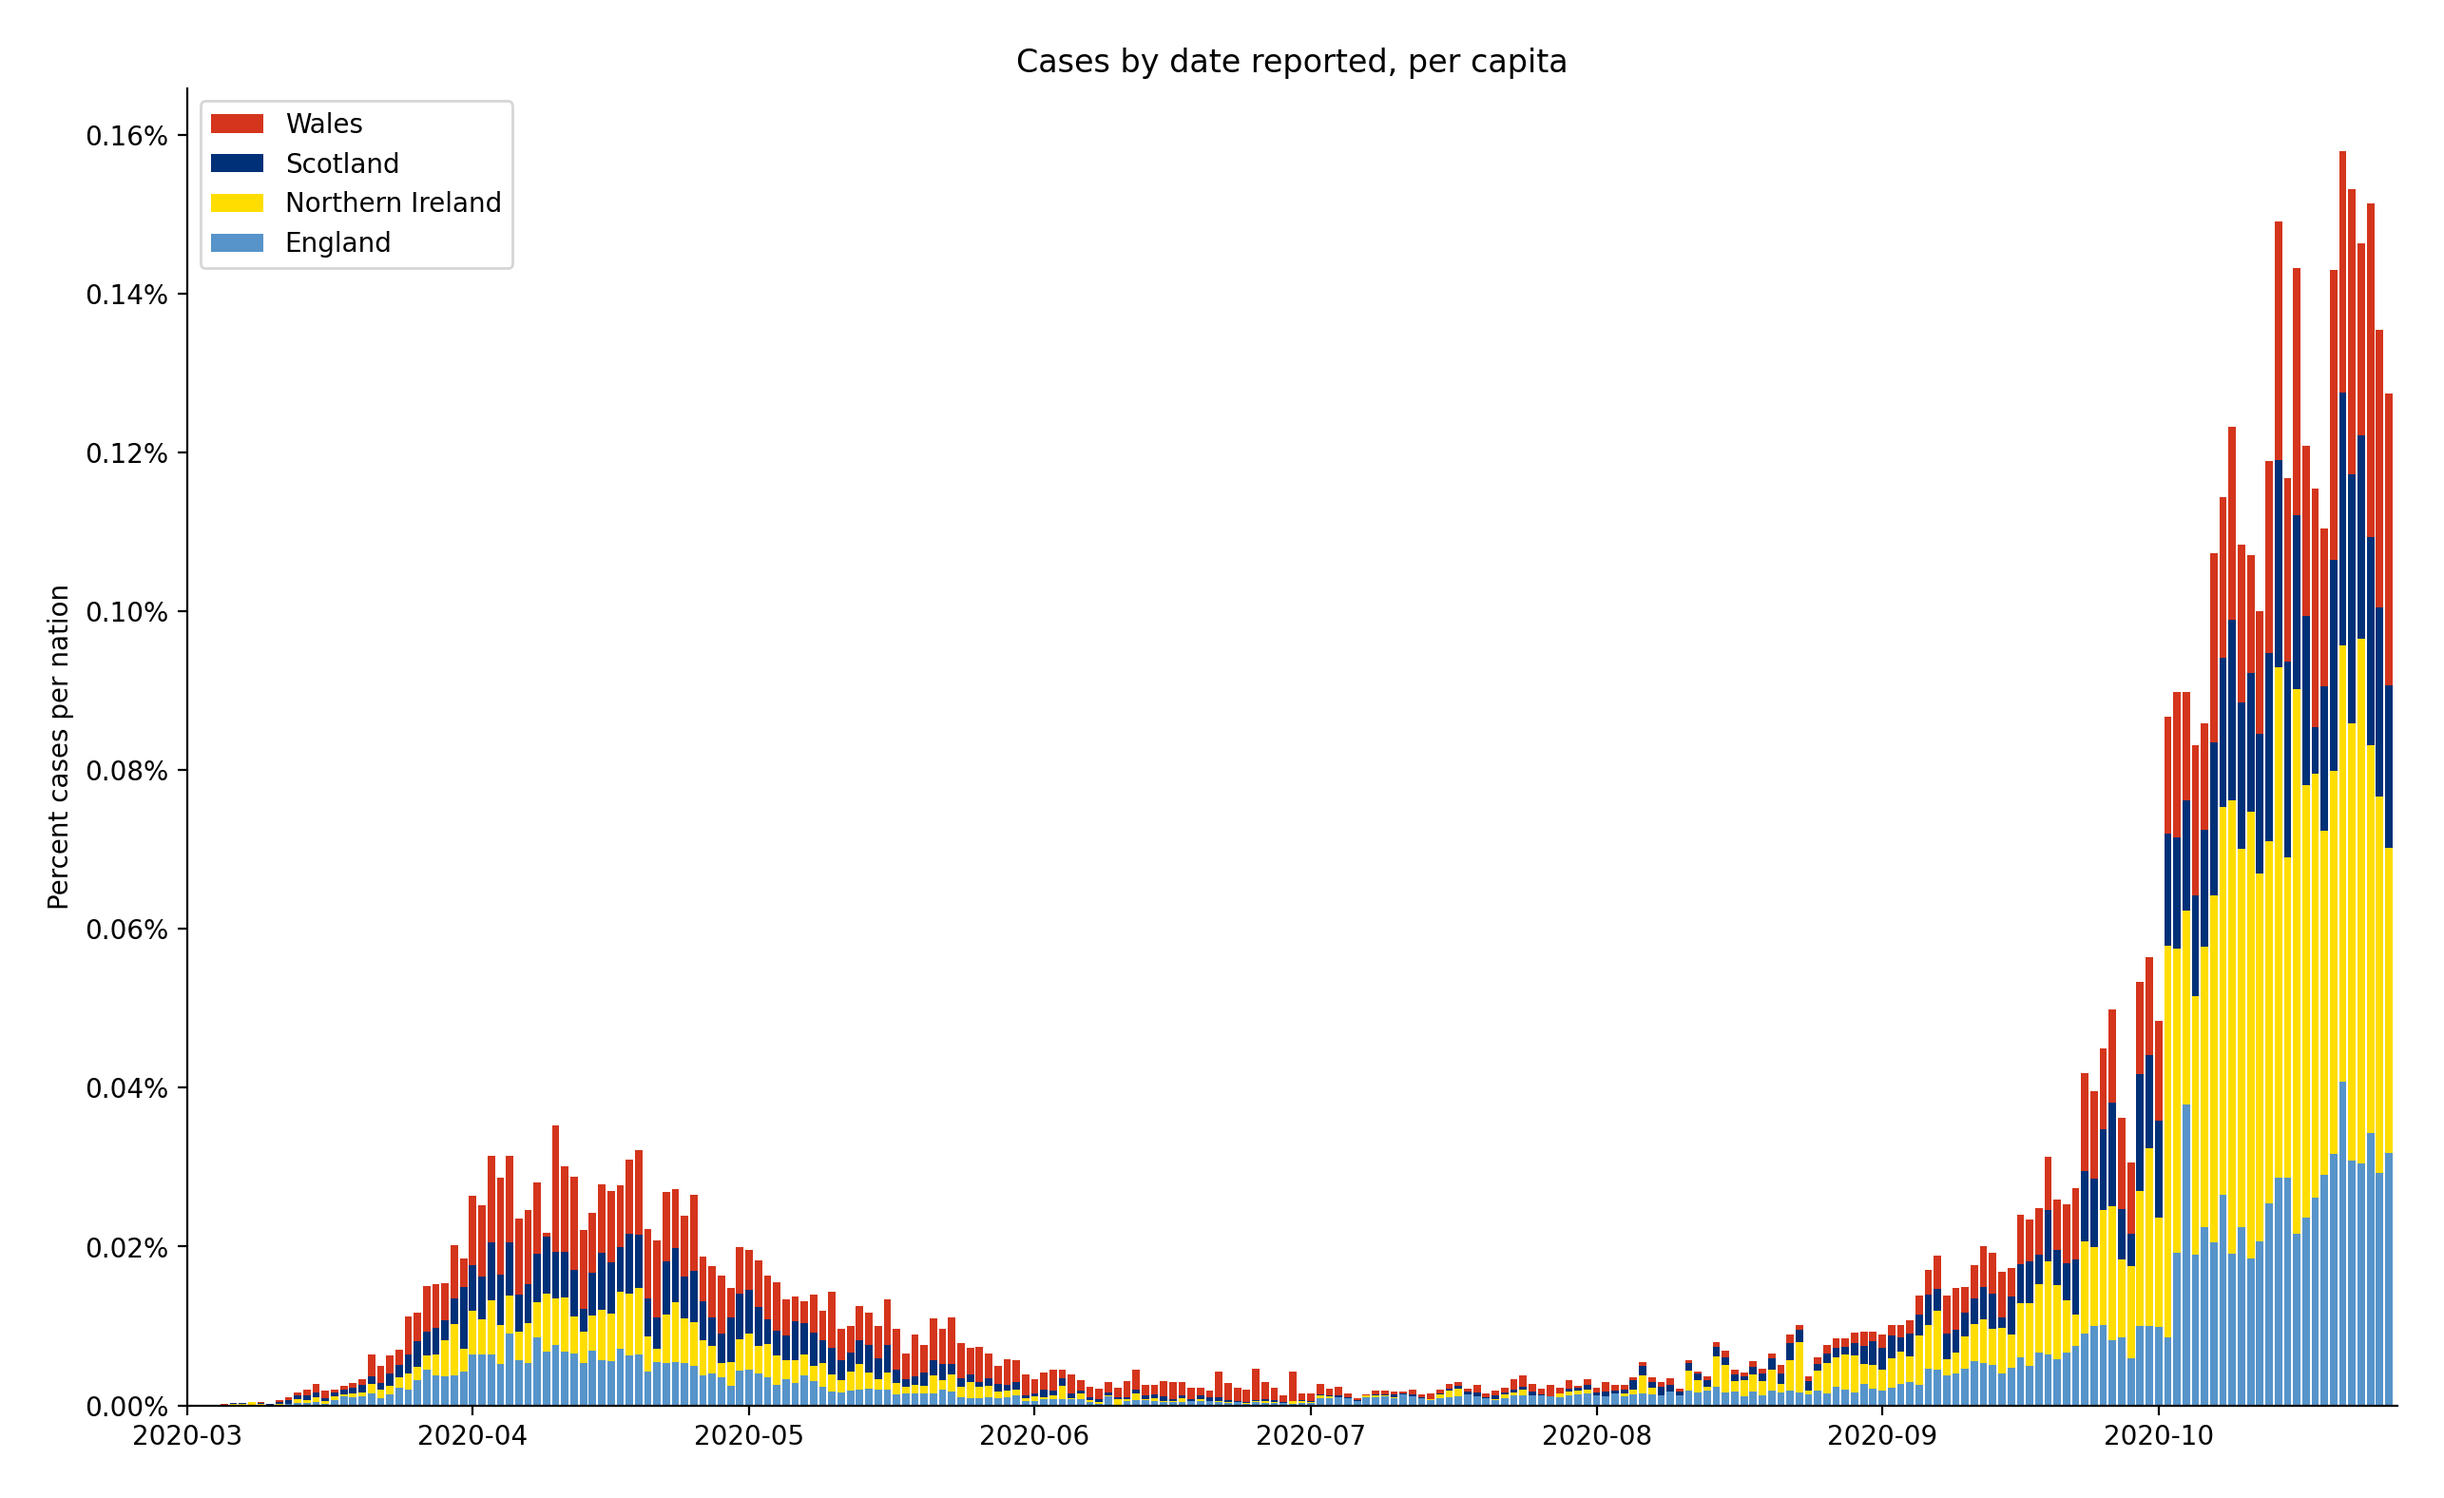
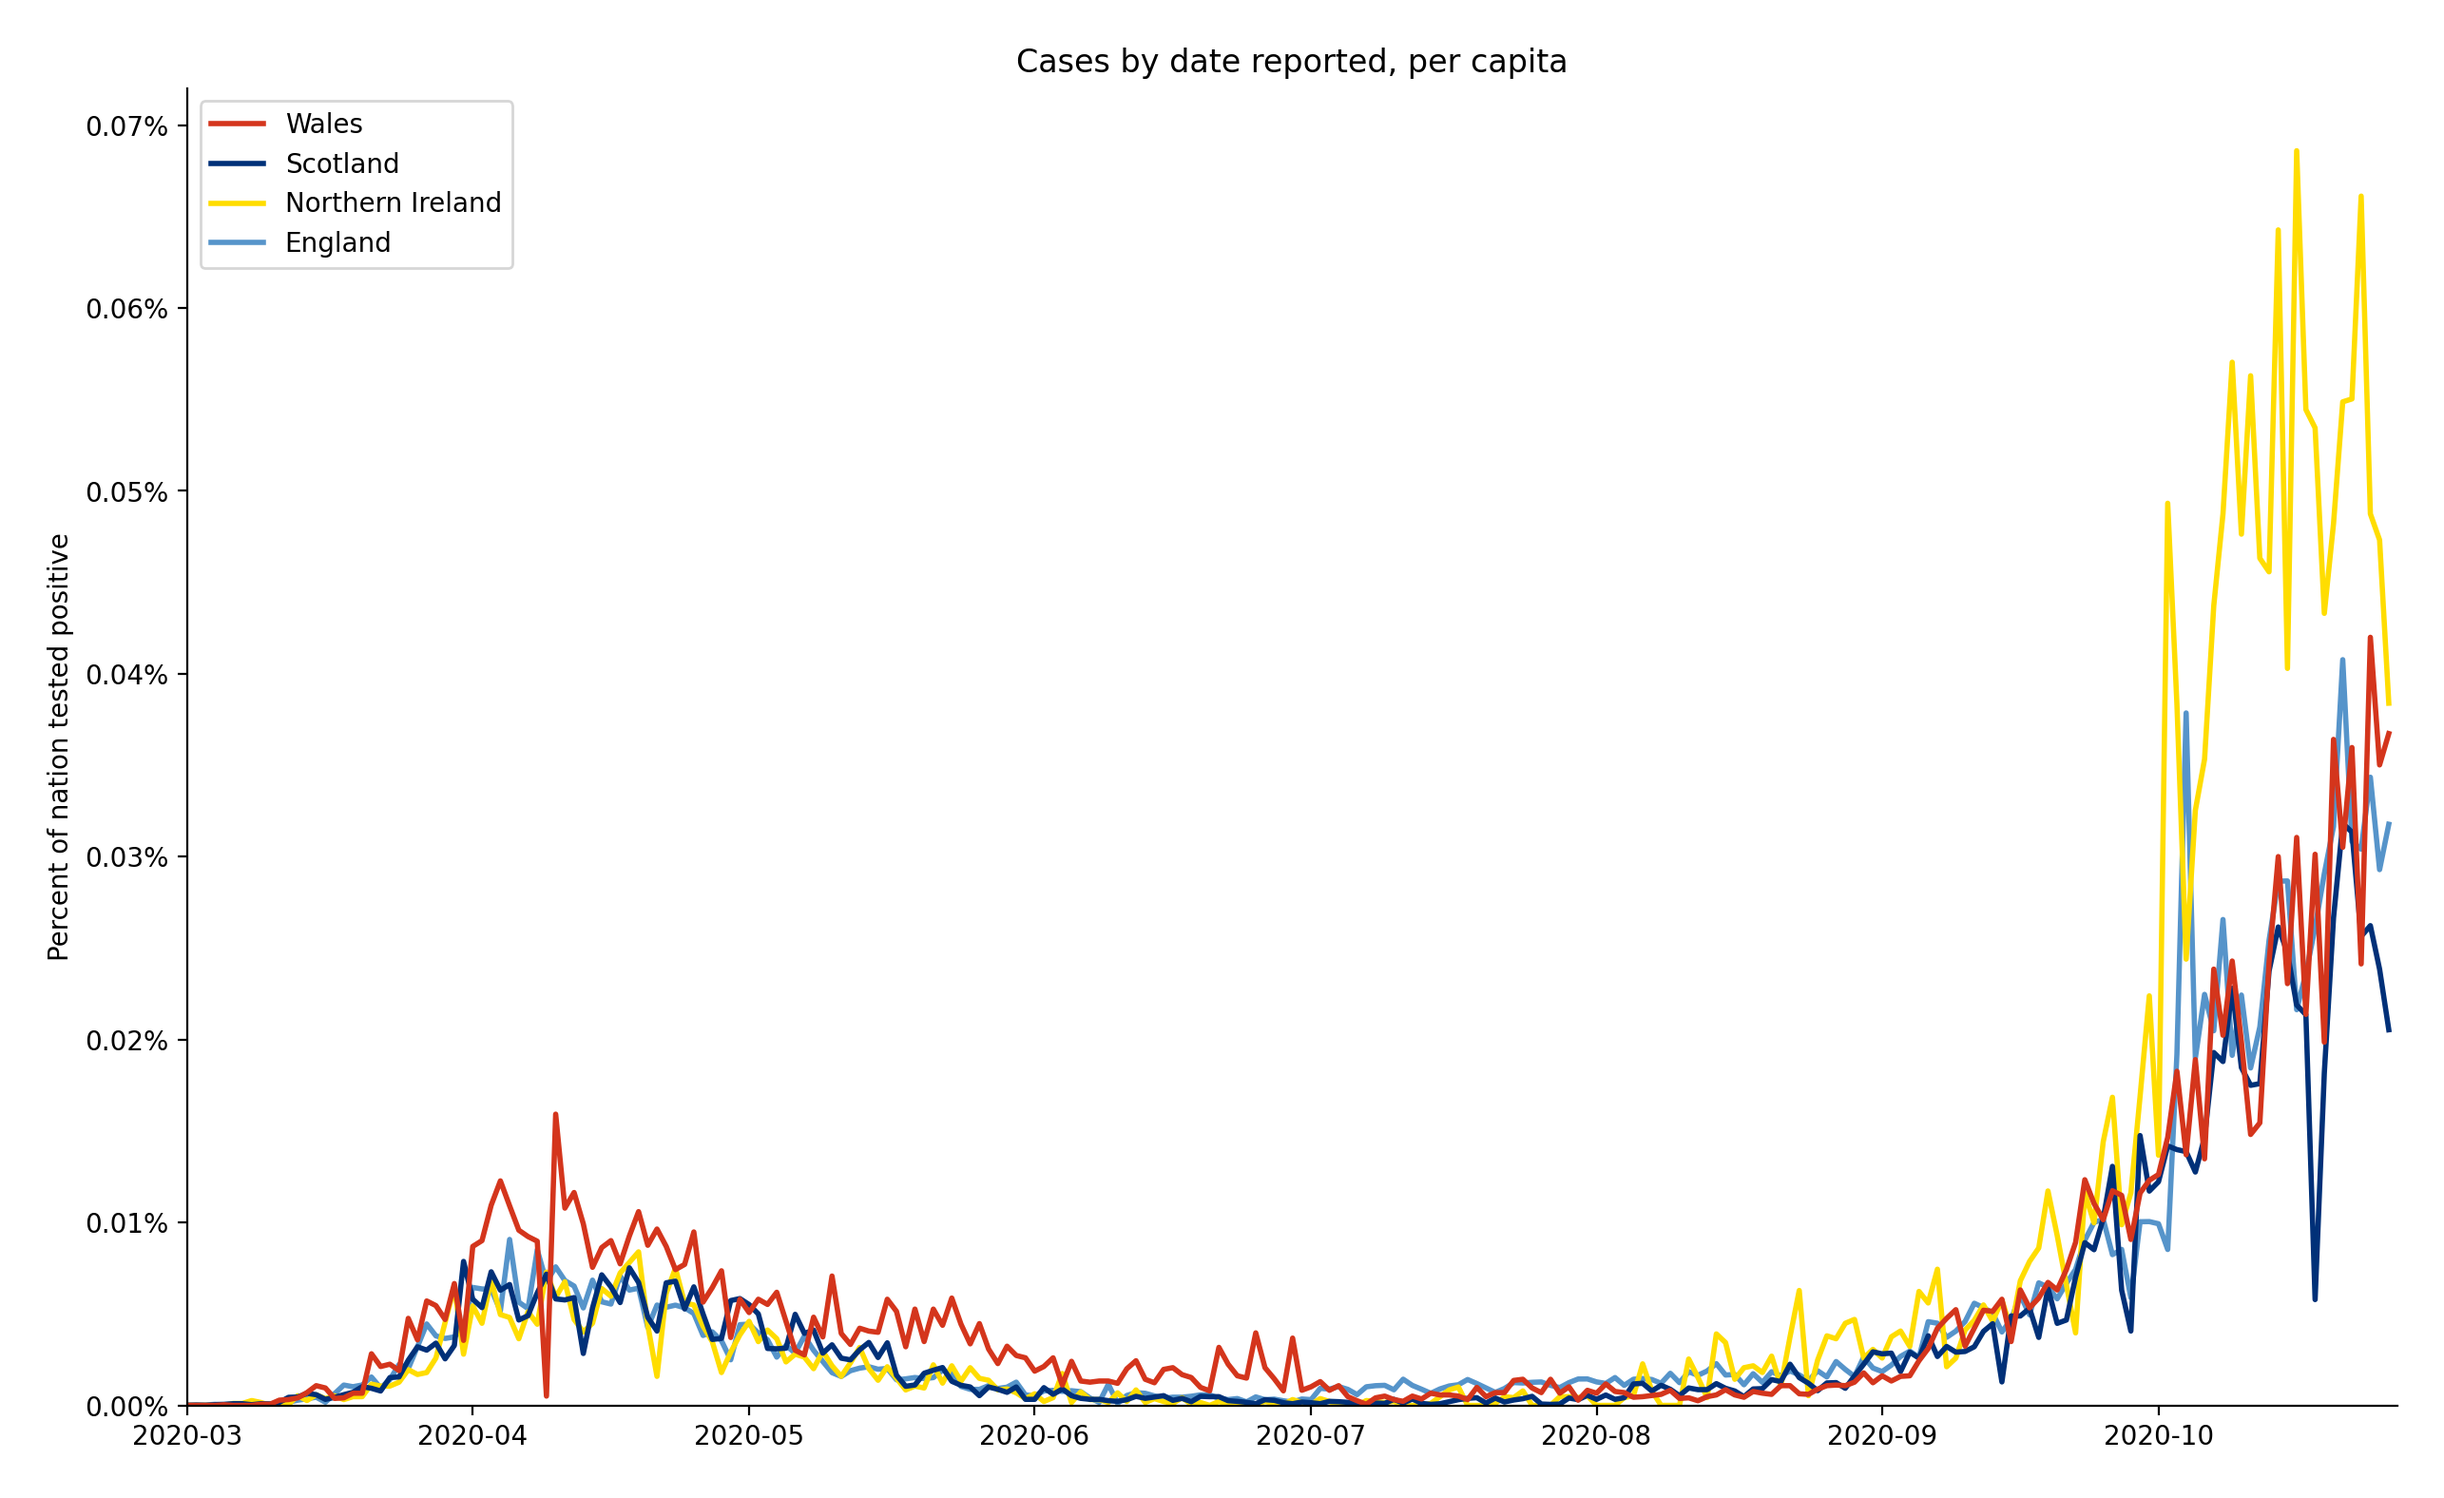
Change per capita plots to line graphs

diff --git a/plot.py b/plot.py
@@ -403,7 +403,6 @@ def nationReportedPlot(dataDir="data/", plotsDir="plots/", avg=True):
 
     fignameSuffix = ["", "-Per-Capita"]
     titleSuffix = ["", ", per capita"]
-    yLabels = ["UK Population", "nation"]
     perCapita = [0, 1]
 
     for i in range(2):
@@ -425,13 +424,22 @@ def nationReportedPlot(dataDir="data/", plotsDir="plots/", avg=True):
             if perCapita[i]:
                 reportedData = [x / populations[j] * 100 for x in reportedData]
 
-            ax.bar(
-                nationDates[j],
-                reportedData,
-                color=colors[j],
-                label=nation,
-                bottom=bottom,
-            )
+            if perCapita[i]:
+                ax.plot(
+                    nationDates[j],
+                    reportedData,
+                    color=colors[j],
+                    label=nation,
+                    linewidth=2,
+                )
+            else:
+                ax.bar(
+                    nationDates[j],
+                    reportedData,
+                    color=colors[j],
+                    label=nation,
+                    bottom=bottom,
+                )
 
             bottom = list(map(add, reportedData, bottom))
 
@@ -443,13 +451,14 @@ def nationReportedPlot(dataDir="data/", plotsDir="plots/", avg=True):
         ax.legend(reversed(handles), reversed(labels))
 
         if perCapita[i]:
-            yLabel = "Percent cases per nation"
+            yLabel = "Percent of nation tested positive"
         else:
             yLabel = "Reported cases"
-        
+
         if avg:
             yLabel += " (seven day average)"
         ax.set_ylabel(yLabel)
+        ax.set_ylim(bottom=0)
 
         if perCapita[i]:
             ax.yaxis.set_major_formatter(tkr.PercentFormatter(decimals=2))
@@ -463,6 +472,7 @@ def nationReportedPlot(dataDir="data/", plotsDir="plots/", avg=True):
         savePlot(figname)
 
     # Cumulative
+    yLabels = ["UK population", "nation"]
 
     if not avg:
         for i in range(2):
@@ -482,13 +492,22 @@ def nationReportedPlot(dataDir="data/", plotsDir="plots/", avg=True):
                 # reversed cumulative sum
                 reportedData = np.cumsum(reportedData[::-1])[::-1]
 
-                ax.bar(
-                    nationDates[j],
-                    reportedData,
-                    color=colors[j],
-                    label=nation,
-                    bottom=bottom,
-                )
+                if perCapita[i]:
+                    ax.plot(
+                        nationDates[j],
+                        reportedData,
+                        color=colors[j],
+                        label=nation,
+                        linewidth=2,
+                    )
+                else:
+                    ax.bar(
+                        nationDates[j],
+                        reportedData,
+                        color=colors[j],
+                        label=nation,
+                        bottom=bottom,
+                    )
 
                 bottom = list(map(add, reportedData, bottom))
 
@@ -500,10 +519,11 @@ def nationReportedPlot(dataDir="data/", plotsDir="plots/", avg=True):
             ax.legend(reversed(handles), reversed(labels))
 
             ax.yaxis.set_major_formatter(tkr.PercentFormatter(decimals=2))
-            yLabel = "Percent cases per " + yLabels[i]
+            yLabel = "Percent of " + yLabels[i] + " tested positive"
             if avg:
                 yLabel += " (seven day average)"
             ax.set_ylabel(yLabel)
+            ax.set_ylim(bottom=0)
 
             removeSpines(ax)
             showGrid(ax, "y")
